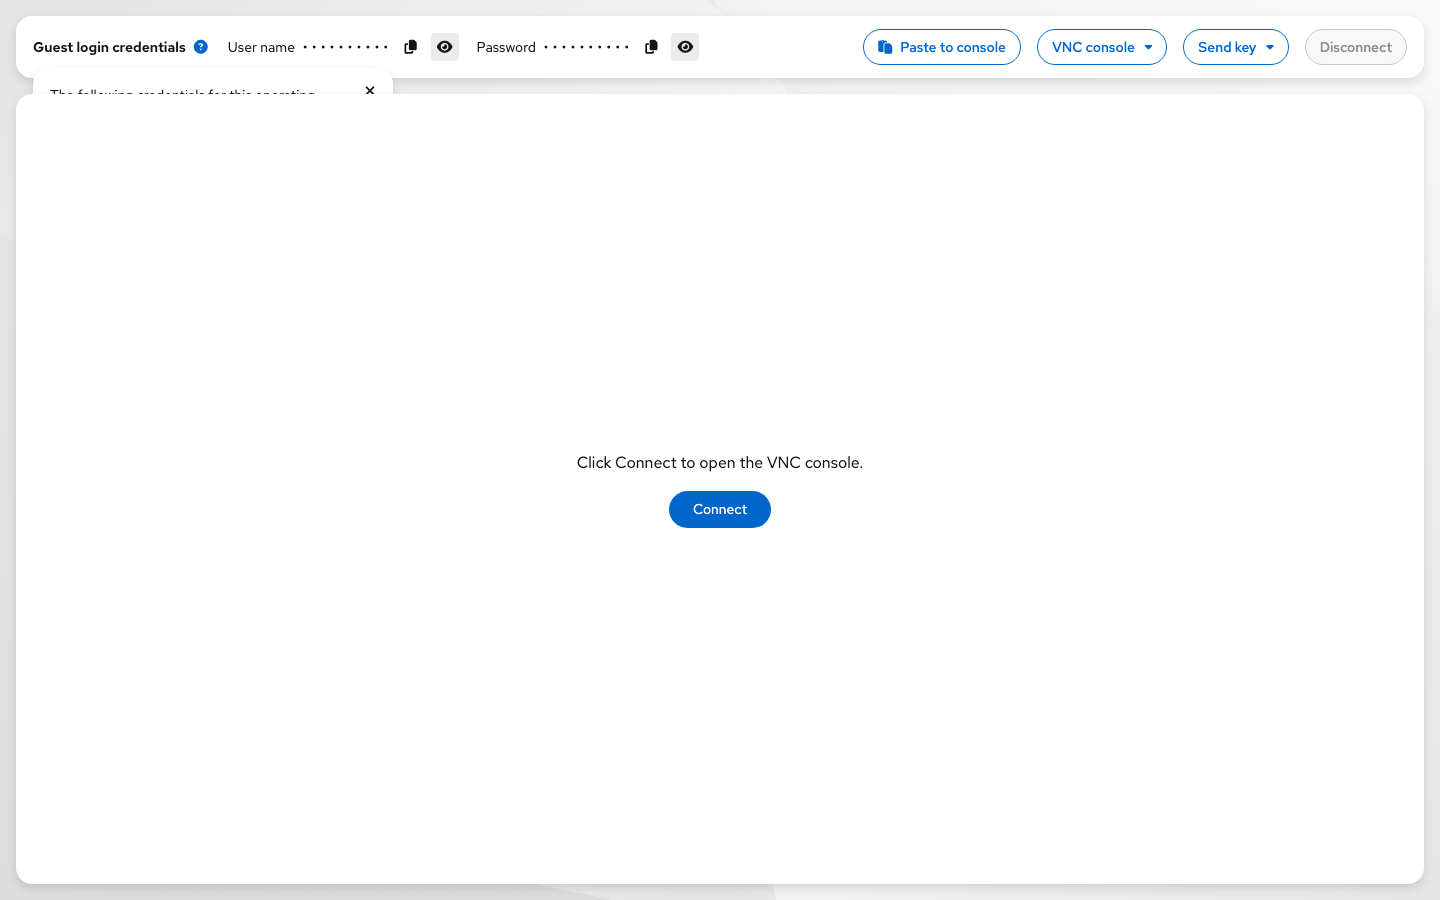
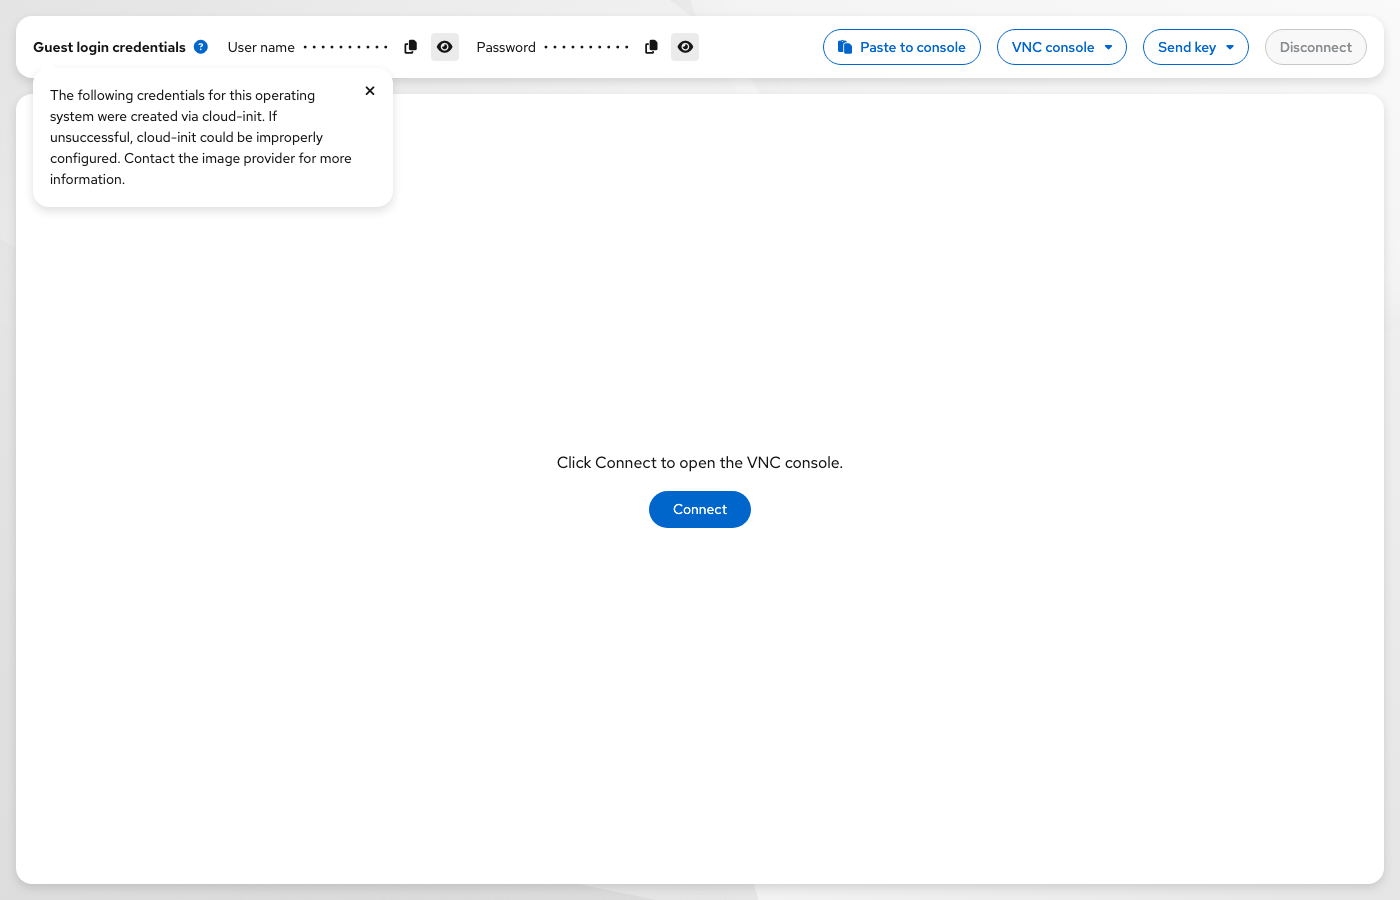
Fix console credentials help popover stacking under the session panel.
Raise toolbar z-index above the glass console body and refresh the Overview doc screenshot.

diff --git a/vmaas-console-placeholder.html b/vmaas-console-placeholder.html
@@ -75,6 +75,9 @@
       box-shadow: var(--console-glass-shadow);
       backdrop-filter: blur(8px);
       -webkit-backdrop-filter: blur(8px);
+      /* Keep creds help / menus above .console-body (sibling stacking context from backdrop-filter) */
+      position: relative;
+      z-index: 2;
     }
     .console-toolbar__left,
     .console-toolbar__right {
@@ -130,7 +133,7 @@
       position: absolute;
       top: calc(100% + 10px);
       left: 0;
-      z-index: 60;
+      z-index: 100;
       width: min(360px, calc(100vw - 32px));
       padding: 16px;
       padding-inline-end: 40px;

diff --git a/vmaas-create-vm-only.html b/vmaas-create-vm-only.html
@@ -6755,7 +6755,7 @@
       consoleUrl.searchParams.set('vm', safeName);
       consoleUrl.searchParams.set('type', 'vnc');
       // Bust CDN / browser cache so stakeholders always get the latest placeholder.
-      consoleUrl.searchParams.set('v', '2026-08-19-console-felt-glass');
+      consoleUrl.searchParams.set('v', '2026-08-26-creds-help-z');
       const win = window.open(consoleUrl.toString(), '_blank', 'noopener');
       if (!win) toast('Allow pop-ups to open the console.');
     }
